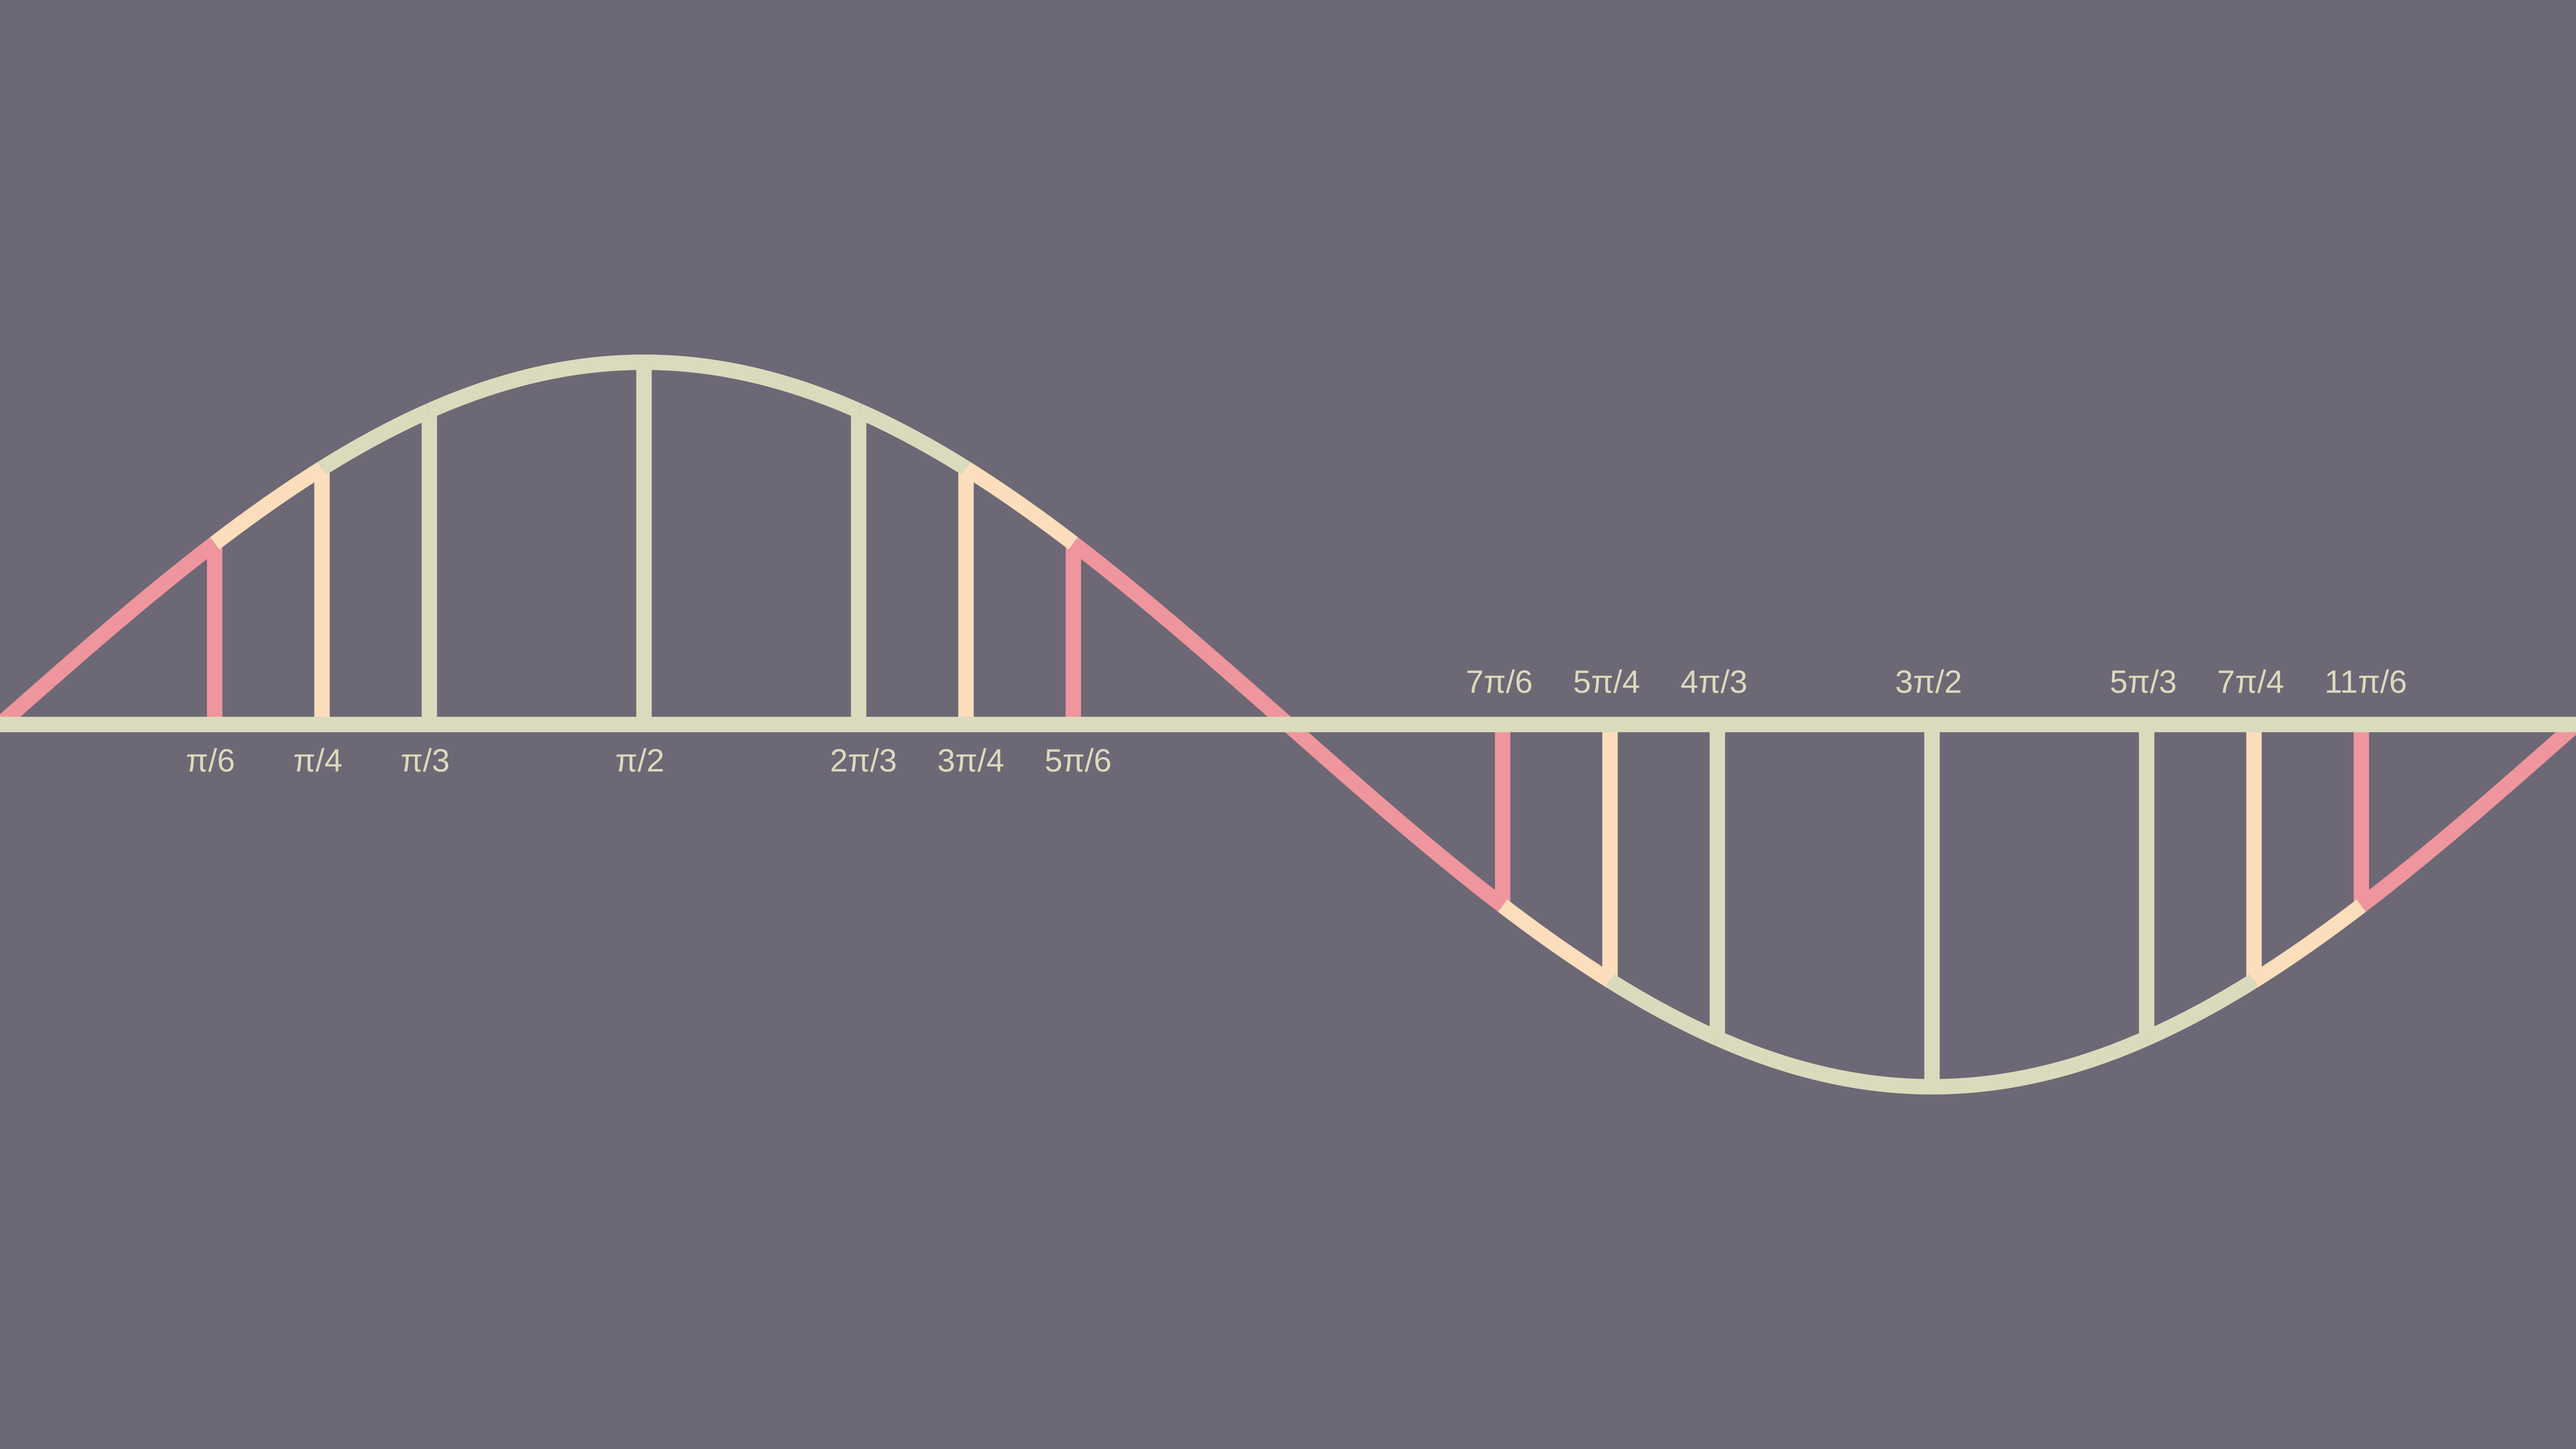
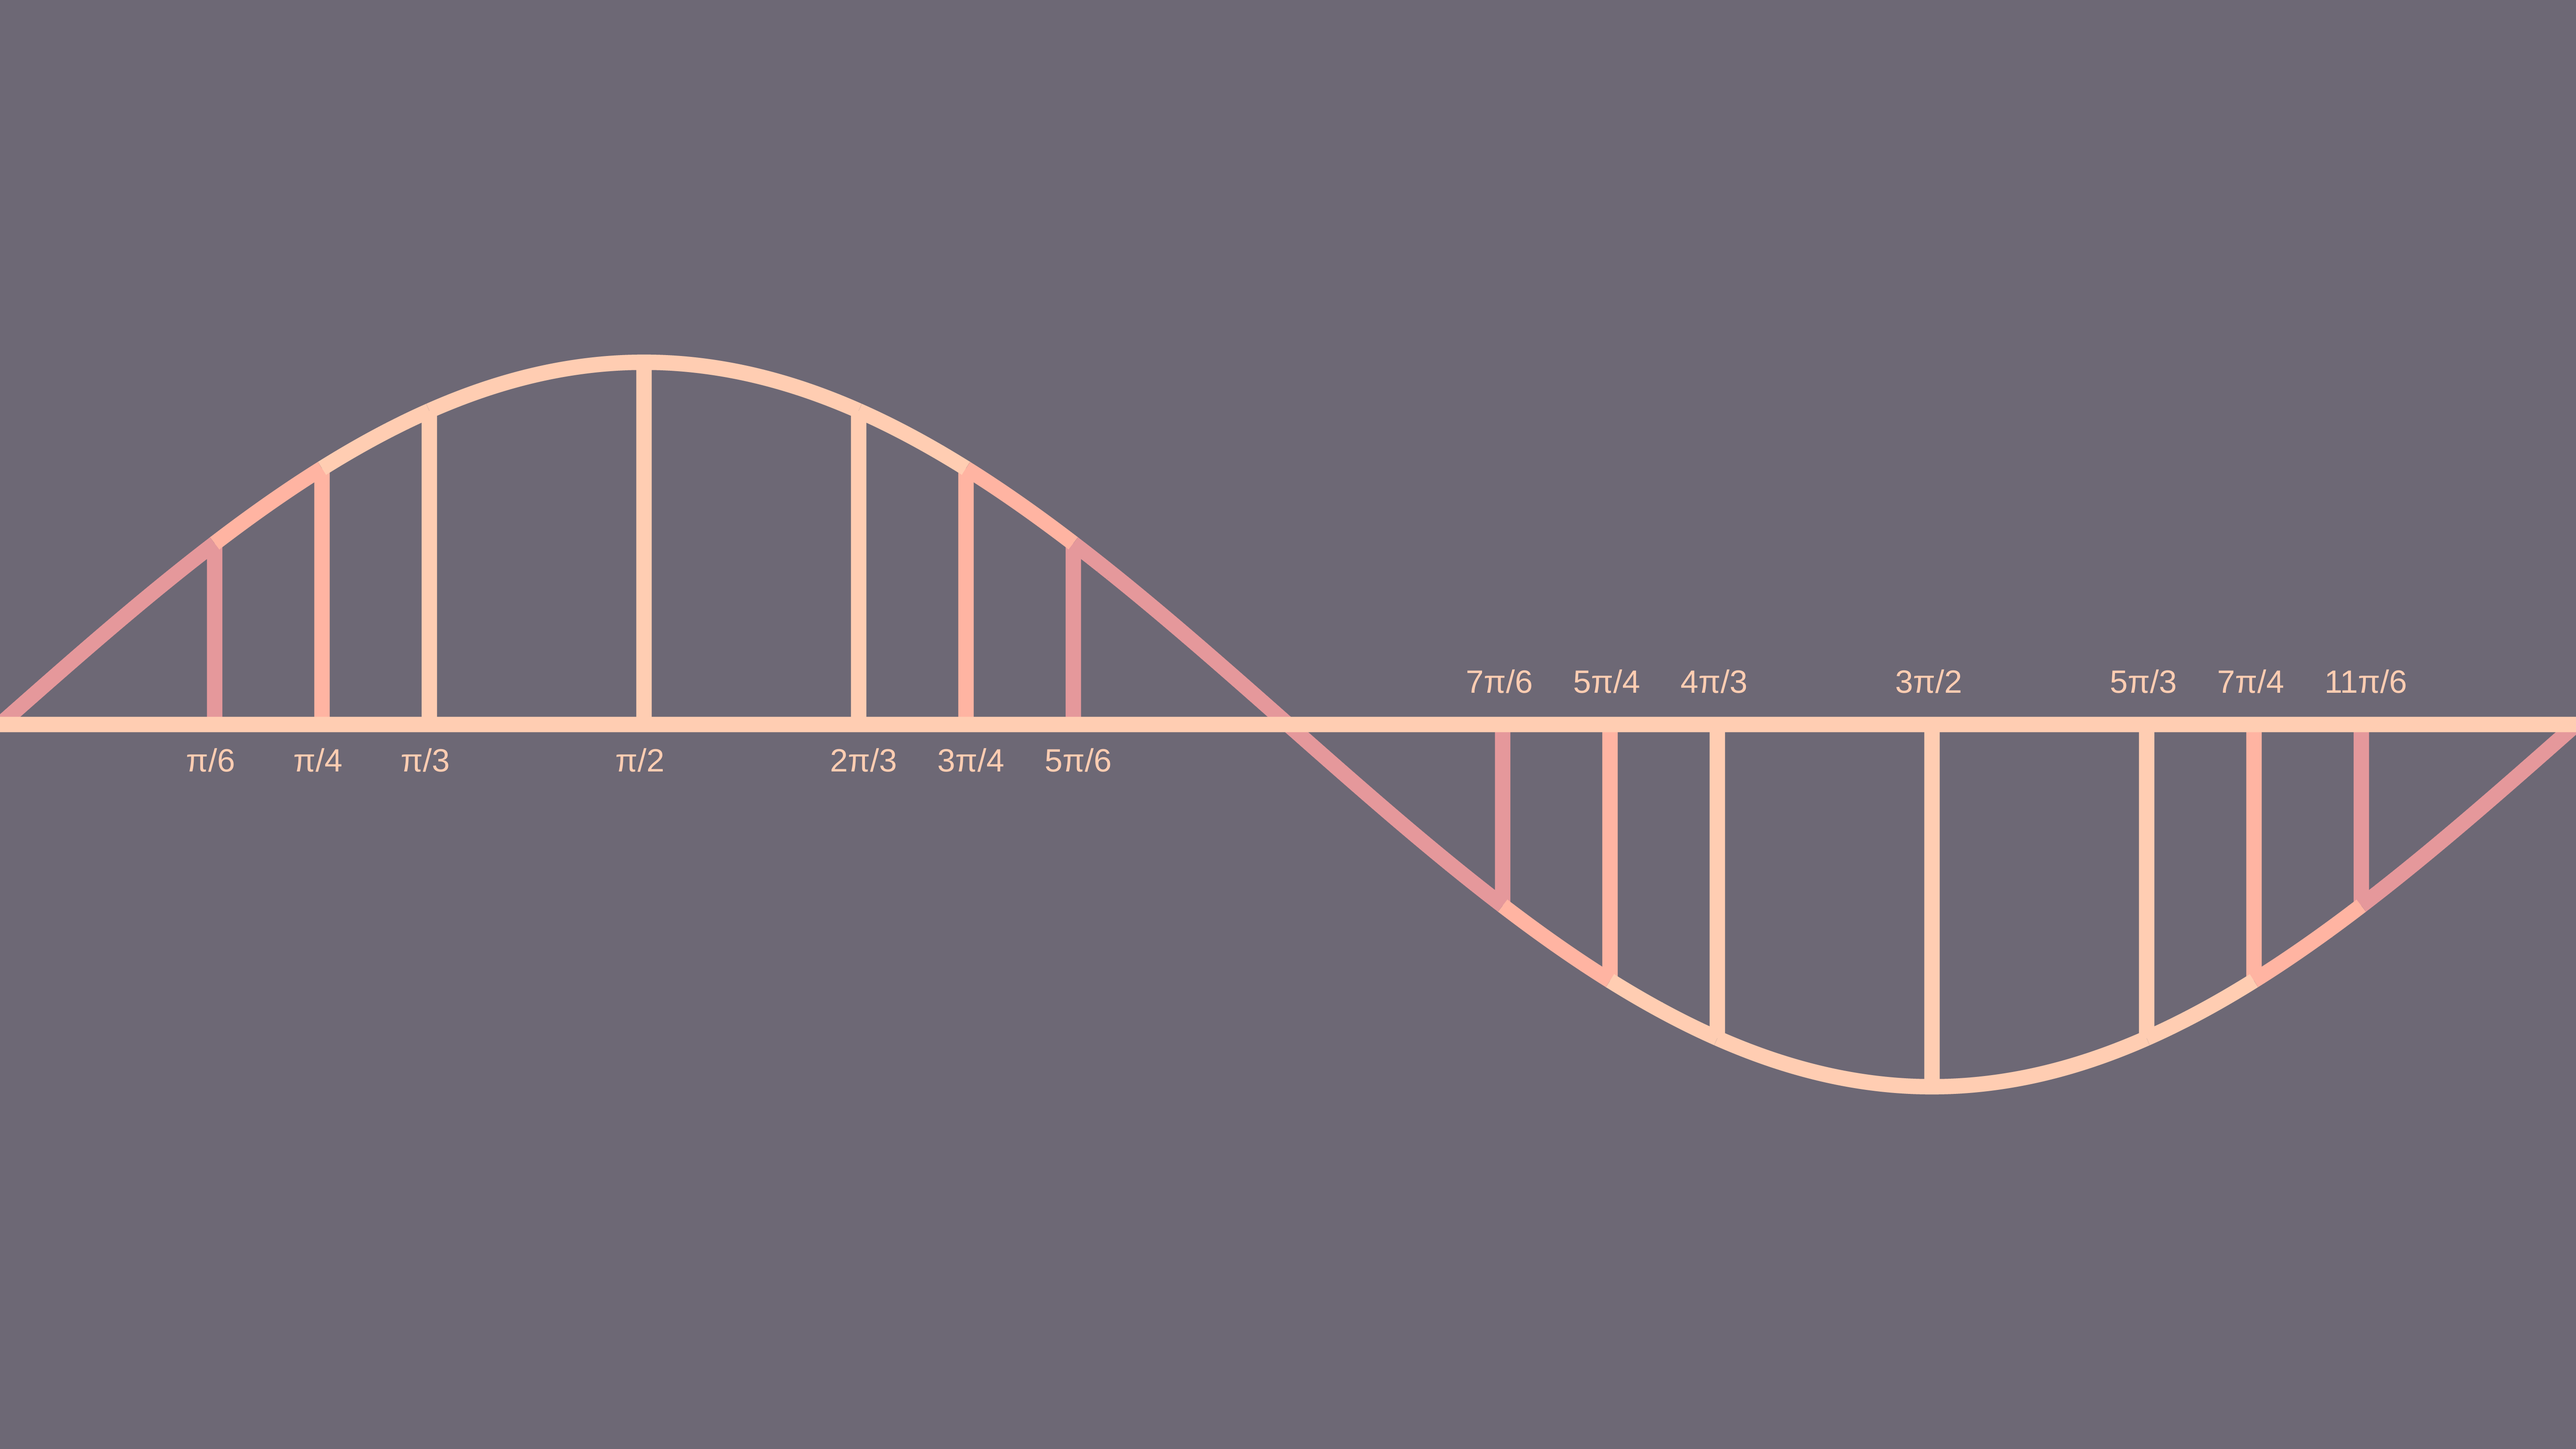
more styling

Changed region(s): [[0.0, 0.2494, 1.0, 0.7793]]

diff --git a/render.js b/render.js
@@ -10,22 +10,23 @@ var colours = [
 var col_back = "#444";
 var col_fore = "#eee";
 
-// // pinky
-// var colours = [
-//     "#E5989B",
-//     "#FFB4A2",
-//     "#FFCDB2",
-// ];
-// var col_back = "#6D6875";
-// var col_fore = "#FFCDB2";
+// pinky
+var colours = [
+    "#E5989B",
+    "#FFB4A2",
+    "#FFCDB2",
+];
+var col_back = "#6D6875";
+var col_fore = "#FFCDB2";
 
-// var colours = [
-//     "#EF959D",
-//     "#FCDDBC",
-//     "#D9DBBC",
-// ];
-// var col_back = "#6D6875";
-// var col_fore = "#D9DBBC";
+// deep red
+var colours = [
+    "#723D46",
+    "#E26D5C",
+    "#C9CBA3",
+];
+var col_back = "#472D30";
+var col_fore = "#FFE1A8";
 
 xvals = [
     0,
@@ -64,6 +65,26 @@ labels = [
     "5pi/3",
     "7pi/4",
     "11pi/6",
+    "",
+];
+
+labels_deg = [
+    "",
+    "30deg",
+    "45deg",
+    "60deg",
+    "90deg",
+    "120deg",
+    "135deg",
+    "150deg",
+    "",
+    "210deg",
+    "225deg",
+    "240deg",
+    "270deg",
+    "300deg",
+    "315deg",
+    "330deg",
     "",
 ];
 
@@ -125,6 +146,13 @@ function gety(y){
     return c.height-(ay+y*sy);
 }
 
+function yToY(xval, y1, y2){
+    cx.beginPath();
+    cx.moveTo(getx(xval), gety(y1));
+    cx.lineTo(getx(xval), gety(y2));
+    cx.stroke();
+}
+
 function axisToCurve(xval){
     cx.beginPath();
     cx.moveTo(getx(xval), gety(0));
@@ -167,15 +195,54 @@ window.onload = function(){
     cx.lineTo(c.width,gety(0));
     cx.stroke();
 
-    labels
-    cx.font = 8.355427582103333*s+'px "Arial"';
-    cx.fillStyle = col_fore;
+    // labels
+    cx.font = 'bold '+8.355427582103333*s+'px "Arial"';
+    // cx.fillStyle = col_fore;
+    // for(var i = 0; i<xvals.length; i++){
+    //     // cx.fillStyle = xcolours[i];
+    //     if(xvals[i]<Math.PI){
+    //         cx.fillText(labels[i].replace('pi','π'), getx(xvals[i]-0.07),gety(-0.13));
+    //     }else{
+    //         cx.fillText(labels[i].replace('pi','π'), getx(xvals[i]-0.09),gety(0.13)+w);
+    //     }
+
+    //     if(xvals[i]<Math.PI){
+    //         cx.fillText(labels_deg[i].replace('deg','°'), getx(xvals[i]-0.07),gety(-0.24));
+    //     }else{
+    //         cx.fillText(labels_deg[i].replace('deg','°'), getx(xvals[i]-0.09),gety(0.24)+w);
+    //     }
+    // }
+
     for(var i = 0; i<xvals.length; i++){
-        // cx.fillStyle = xcolours[i];
+        cx.fillStyle = xcolours[i];
+
         if(xvals[i]<Math.PI){
-            cx.fillText(labels[i].replace('pi','π'), getx(xvals[i]-0.07),gety(-0.13));
+            cx.fillText(labels[i].replace('pi','π'), getx(xvals[i]-0.07),gety(-1.2)+w);
         }else{
-            cx.fillText(labels[i].replace('pi','π'), getx(xvals[i]-0.09),gety(0.13)+w);
+            cx.fillText(labels[i].replace('pi','π'), getx(xvals[i]-0.09),gety(-1.2)+w);
+        }
+        
+        if(xvals[i]<Math.PI){
+            cx.fillText(labels_deg[i].replace('deg','°'), getx(xvals[i]-0.055),gety(1.2));
+        }else{
+            cx.fillText(labels_deg[i].replace('deg','°'), getx(xvals[i]-0.07),gety(1.2));
+        }
+    }
+
+    // labels to axis lines
+    cx.lineWidth = s;
+    cx.setLineDash([1*s, 12*s]);
+    // cx.setLineDash([10*s, 12*s]);
+
+    for(var i = 1; i<xvals.length-1; i++){
+        if(labels[i] == ""){ continue; }
+
+        cx.strokeStyle = xcolours[i];
+
+        if (xvals[i]<Math.PI){
+            yToY(xvals[i], -1.05, 0);
+        }else{
+            yToY(xvals[i], 1.05, 0);
         }
     }
 

diff --git a/index.html b/index.html
@@ -5,8 +5,8 @@
     </head>
     <body>
         <!-- <canvas id="c" width="1920" height="1080"></canvas> -->
-        <canvas id="c" width="1280" height="720"></canvas>&nbsp;
-        <!-- <canvas id="c" width="5760" height="3240"></canvas> -->
+        <!-- <canvas id="c" width="1280" height="720"></canvas>&nbsp; -->
+        <canvas id="c" width="5760" height="3240"></canvas>
         <script src="render.js"></script>
     </body>
 </html>

diff --git a/README.md b/README.md
@@ -3,3 +3,4 @@ Code which generates some nice looking trig graphs
 
 ![](out/sine.png)
 ![](out/sine-alt.png)
+![](out/sine-red.png)
